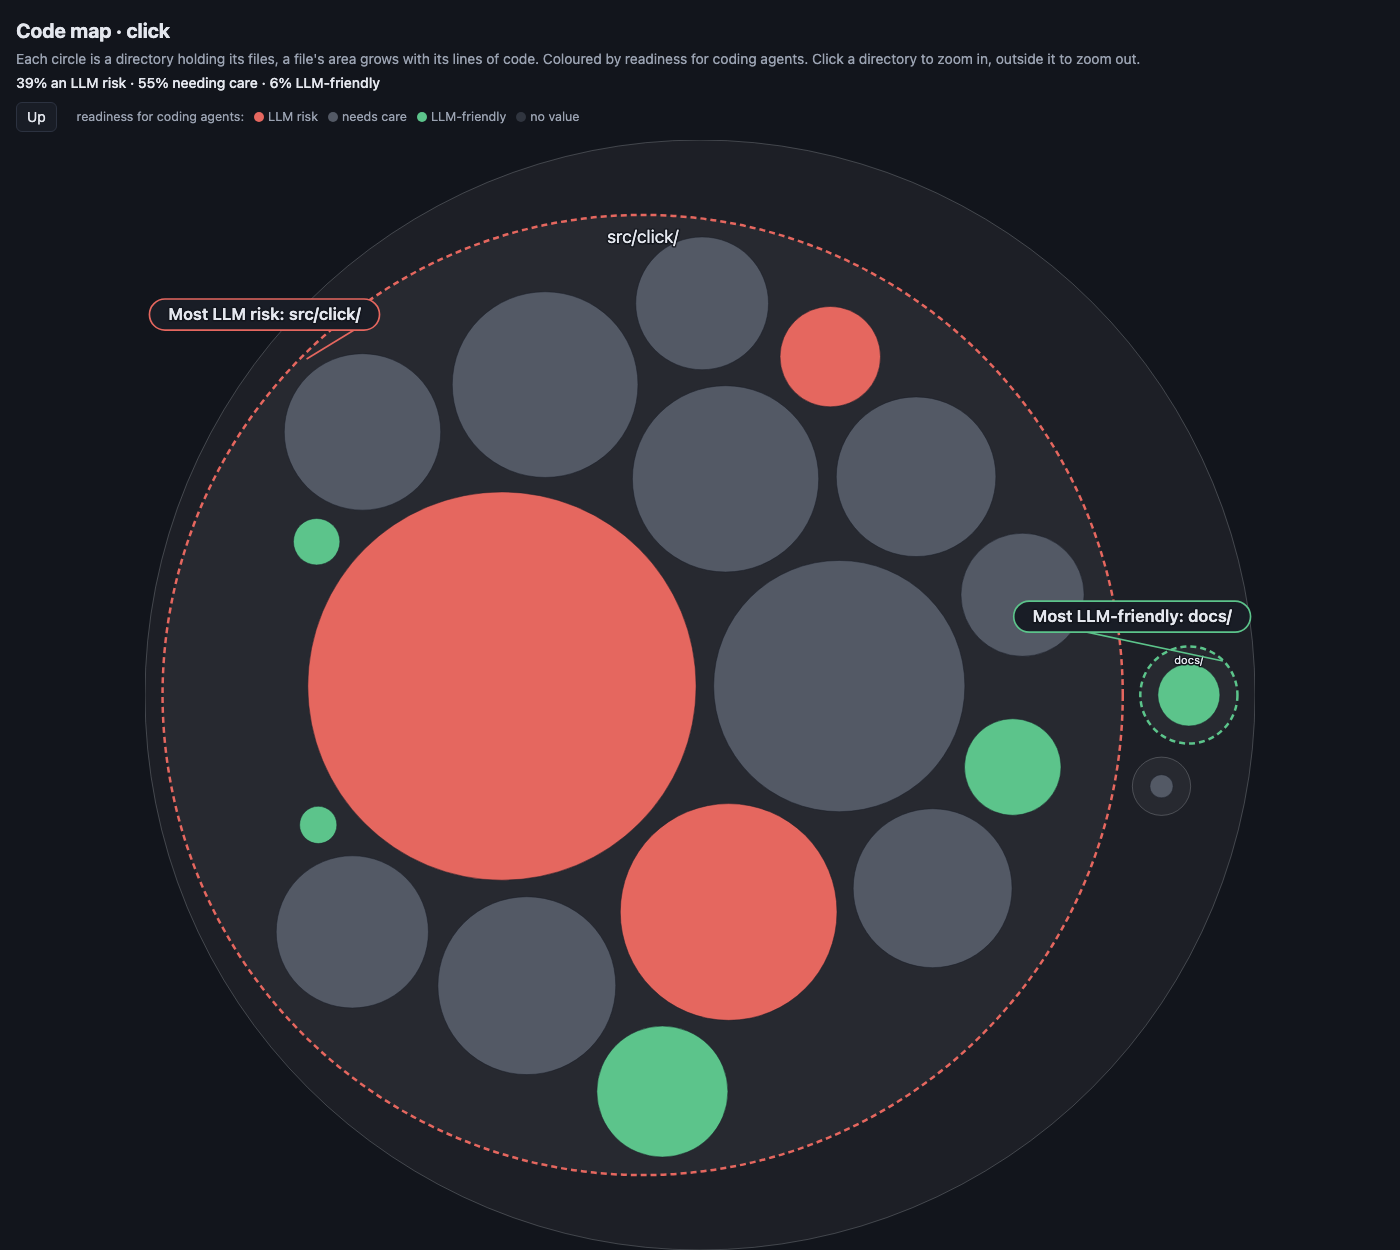
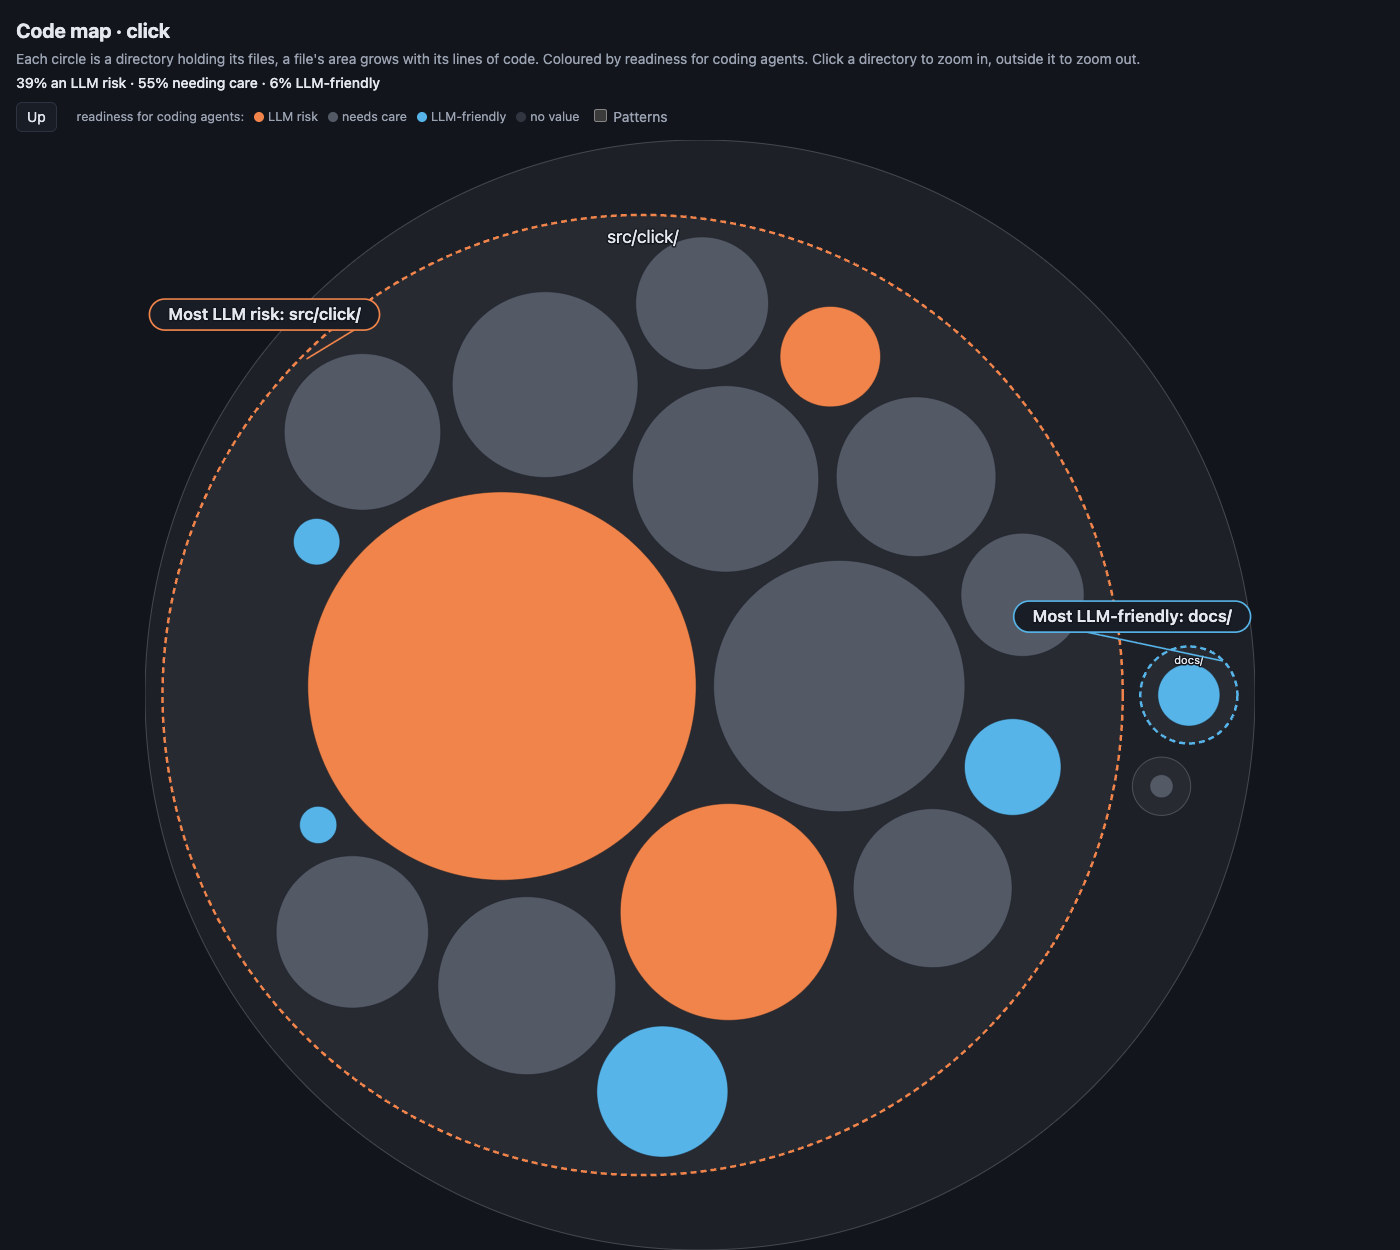
Mapas con la paleta naranja y azul de kimun 0.45

diff --git a/README.md b/README.md
@@ -4,13 +4,13 @@ Datos y scripts del artículo [*¿Tu código es amistoso para un LLM?*](https://
 
 Tres partes:
 
-1. **El mapa.** `km map --color-by llm` de [kimun](https://kimun.tools) sobre nueve proyectos conocidos. Cada archivo se pinta según su nota de `km score`: verde desde 95 ("amistoso para un LLM"), gris entre 70 y 95, rojo bajo 70. El umbral de 95 es la contraparte, en la escala de kimun, del 9,5 de Code Health que CodeScene propone para trabajar con agentes. No es una equivalencia calibrada.
-2. **Primera ronda.** 25 bugs de un token inyectados en click, flask y black: 13 en archivos verdes (nota ≥ 85) y 12 en rojos (< 65). Un agente por bug intenta arreglarlo, y luego se vuelve a correr la suite completa.
+1. **El mapa.** `km map --color-by llm` de [kimun](https://kimun.tools) sobre nueve proyectos conocidos. Cada archivo se pinta según su nota de `km score`: azul desde 95 ("amistoso para un LLM"), gris entre 70 y 95, naranja bajo 70. El umbral de 95 es la contraparte, en la escala de kimun, del 9,5 de Code Health que CodeScene propone para trabajar con agentes. No es una equivalencia calibrada.
+2. **Primera ronda.** 25 bugs de un token inyectados en click, flask y black: 13 en archivos azules (nota ≥ 85) y 12 en naranjas (< 65). Un agente por bug intenta arreglarlo, y luego se vuelve a correr la suite completa.
 3. **Segunda ronda.** 22 bugs en [sc-cli](https://github.com/lnds/sc-cli) (Rust, nota F- 40,0), un proyecto que casi seguro no está en los datos de entrenamiento del modelo. Las mutaciones las generó [kalku](https://kalku.tools).
 
 ## Resultados de la primera ronda
 
-| | Verdes (n=13) | Rojos (n=12) |
+| | Azules (n=13) | Naranjas (n=12) |
 |---|---|---|
 | Diagnóstico correcto | 13/13 | 12/12 |
 | La suite pasa | 11/13 | 12/12 |
@@ -19,7 +19,7 @@ Tres partes:
 | Código que el agente sumó al contexto (mediana) | 10 mil tokens | 10 mil tokens |
 | Tamaño del archivo (mediana) | 385 líneas | 1.145 líneas |
 
-La correlación de Spearman entre la nota del archivo y las herramientas que usó el agente es −0,26: con 25 casos, ruido. Medida en tokens de entrada acumulados, la correlación es −0,18. Cada sesión parte con unos 52 mil tokens fijos (instrucciones y herramientas), que se reenvían en cada turno; lo que el agente suma al contexto leyendo código es `context_growth` en `data/results.json`. Los tokens de salida que registran los transcripts no son confiables y no se usan. El único caso caro fue `black/linegen.py` (nota 32,3): 36 herramientas, 5,5 minutos y 2,8 millones de tokens de entrada, contra 4 a 12 herramientas y una mediana de 370 mil tokens en el resto. Los dos casos en que la suite no pasa (t08, t13) son archivos verdes: el agente encontró el bug, aplicó el arreglo con un `sed -i` de sintaxis GNU que falla en macOS y reportó éxito sin ver el resultado.
+La correlación de Spearman entre la nota del archivo y las herramientas que usó el agente es −0,26: con 25 casos, ruido. Medida en tokens de entrada acumulados, la correlación es −0,18. Cada sesión parte con unos 52 mil tokens fijos (instrucciones y herramientas), que se reenvían en cada turno; lo que el agente suma al contexto leyendo código es `context_growth` en `data/results.json`. Los tokens de salida que registran los transcripts no son confiables y no se usan. El único caso caro fue `black/linegen.py` (nota 32,3): 36 herramientas, 5,5 minutos y 2,8 millones de tokens de entrada, contra 4 a 12 herramientas y una mediana de 370 mil tokens en el resto. Los dos casos en que la suite no pasa (t08, t13) son archivos azules: el agente encontró el bug, aplicó el arreglo con un `sed -i` de sintaxis GNU que falla en macOS y reportó éxito sin ver el resultado.
 
 ```bash
 python3 scripts/summary.py    # la tabla por intento y los agregados, desde data/results.json
@@ -27,7 +27,7 @@ python3 scripts/summary.py    # la tabla por intento y los agregados, desde data
 
 ## Resultados de la segunda ronda
 
-| | Verdes (n=10) | Rojos (n=12) |
+| | Azules (n=10) | Naranjas (n=12) |
 |---|---|---|
 | La suite pasa | 10/10 | 11/12 |
 | Herramientas usadas (mediana) | 6 | 8 |
@@ -35,9 +35,9 @@ python3 scripts/summary.py    # la tabla por intento y los agregados, desde data
 | Código que el agente sumó al contexto (mediana) | 9 mil tokens | 11 mil tokens |
 | Tamaño del archivo (mediana) | 591 líneas | 2.123 líneas |
 
-Los verdes están en `git/operations.rs` (92,5) y `git/mod.rs` (99,5); los rojos en `ui/mod.rs` (15,3), `main.rs` (30,7) y `api/client.rs` (57,3). Spearman entre la nota y los tokens: −0,61. El intento rojo gastó más tokens que el verde en el 90% de los pares, y una prueba de permutación sobre la diferencia de medianas da p = 0,0006. El único intento fallido (r12, `main.rs`) no encontró el bug y atribuyó la falla al entorno.
+Los azules están en `git/operations.rs` (92,5) y `git/mod.rs` (99,5); los naranjas en `ui/mod.rs` (15,3), `main.rs` (30,7) y `api/client.rs` (57,3). Spearman entre la nota y los tokens: −0,61. El intento naranja gastó más tokens que el azul en el 90% de los pares, y una prueba de permutación sobre la diferencia de medianas da p = 0,0006. El único intento fallido (r12, `main.rs`) no encontró el bug y atribuyó la falla al entorno.
 
-kalku lanzó 304 mutantes en esos archivos (todos en los verdes y en `config.rs`, 60 por archivo en los rojos) y la suite mató 49. De ellos se descartaron los cambios de texto y los que borran una rama completa, y quedaron los que hacen fallar entre 1 y 15 pruebas.
+kalku lanzó 304 mutantes en esos archivos (todos en los azules y en `config.rs`, 60 por archivo en los naranjas) y la suite mató 49. De ellos se descartaron los cambios de texto y los que borran una rama completa, y quedaron los que hacen fallar entre 1 y 15 pruebas.
 
 ## Contenido
 
@@ -55,7 +55,7 @@ kalku lanzó 304 mutantes en esos archivos (todos en los verdes y en `config.rs`
 
 ## Reproducir
 
-Requiere `git`, `python3`, [`uv`](https://docs.astral.sh/uv/), [`km`](https://kimun.tools) 0.44 y, para el experimento, [Claude Code](https://claude.com/claude-code).
+Requiere `git`, `python3`, [`uv`](https://docs.astral.sh/uv/), [`km`](https://kimun.tools) 0.45 y, para el experimento, [Claude Code](https://claude.com/claude-code).
 
 ```bash
 scripts/fetch.sh            # clona los repos en work/repos y crea los entornos de click, flask y black
@@ -80,14 +80,14 @@ La segunda ronda usa sc-cli en el commit `0d9c860` y kalku 0.24: `kalku init` en
 - **Con quién:** el experimento se diseñó, se corrió y se analizó con Claude (Opus) en Claude Code. Claude escribió los scripts de este repositorio.
 - **Modelo de los agentes:** Claude Sonnet, como subagentes de Claude Code (no con `claude -p`), con 20 agentes a la vez. `analyze.py` lee los dos formatos de sesión.
 - **Fecha:** 22 y 23 de octubre de 2026, en macOS con Python 3.13 y Rust estable.
-- **Mapas:** kimun 0.44. En black se excluyó `profiling/` (datos de prueba) y en redis `deps/` (código de terceros).
+- **Mapas:** kimun 0.45, con la paleta naranja y azul (hasta 0.44 era roja y verde). En black se excluyó `profiling/` (datos de prueba) y en redis `deps/` (código de terceros).
 
 ## Límites
 
 - Son 47 casos, con una corrida por bug y un solo modelo.
 - En sc-cli los bugs están en solo cinco archivos, y la segunda ronda cambia a la vez el lenguaje, el proyecto y la herramienta de mutaciones.
 - Un bug de un token que un test señala es la tarea más fácil posible: el agente lee el traceback, hace grep y lee unas 40 líneas, sin importar el tamaño del archivo. Features, refactors y bugs sin un test que los señale pueden dar otro resultado.
-- El tiempo no sirve para comparar: la suite de black es la más lenta, la mayoría de los archivos rojos son de black y los agentes corrían en paralelo.
+- El tiempo no sirve para comparar: la suite de black es la más lenta, la mayoría de los archivos naranjas son de black y los agentes corrían en paralelo.
 
 ## Licencia
 
